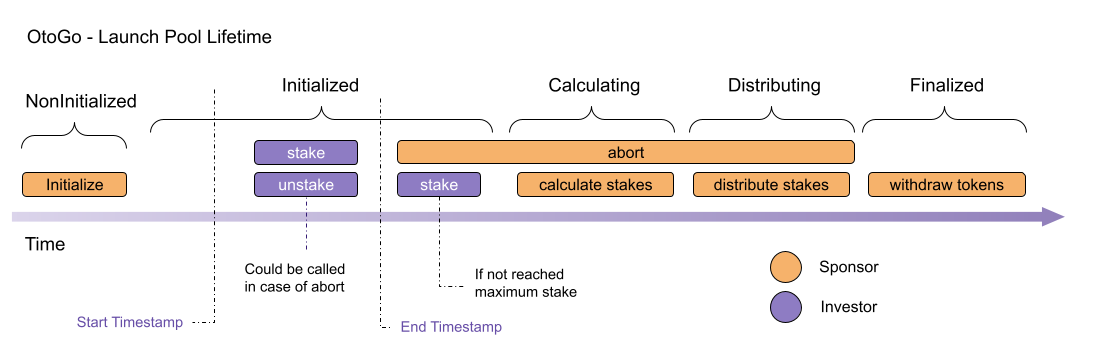
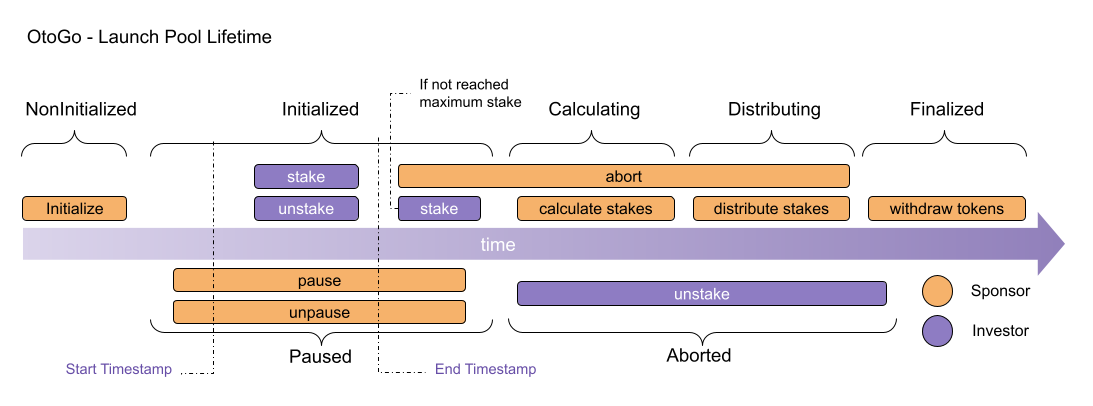
Improve detailed user specs for launch pools.

diff --git a/README.md b/README.md
@@ -29,18 +29,18 @@ truffle run coverage
 ### Pre-Launch Requirements
 
 At the pre-launch moment the Sponsor should decide all aspects of the launch pool:
-1) **Allowed tokens** (`_allowedTokens`) by the launch pool, any ERC20 token. It's an array pointing the addresses of the tokens accepted as stakes. Recommend use only stable tokens or different tokens with similar values, due to all be normalized with 18 decimals and considereded has same weight in staking. Any token different that those allowed by the launch pool will be rejected.
-2) **Minimum amount of stakes** (`_stakesMin`) that should be staked to launch pool be considered succeded.
-3) **Maximum amount of stakes** (`_stakesMax`) that could be staked at the launch pool.
-4) **Start timestamp** (`_startTimestamp`) that will allow users start to stake. If is smaller than current timestamp, it will be considered already opened for staking.
-5) **End timestamp** (`_endTimestamp`) that marks the last moment where users could unstake. After that Sponsor could lock the launch pool in case of reach `_stakesMin`. In case of launch pool isn't reached the `_stakesMax`, users could still stake if Sponsor not call function `lock`.
-6) **Minimum stake amount** (`_stakeAmountMin`) that a single stake should have. Any stake smaller than that amount will be rejected.
-7) **Maximum stake amount** (`_stakeClamp`) that a single stake should have. Any stake larger than that amount will be rejected.
-8) **Minimum Price** (`_curveMinPrice`) is the minimum price usually paid for the first staker in the pool.
-9) **Curve Reducer** (`_curveReducer`) is the smooth factor for the curve, for the standard curve already implemented, that is exponential, this factor reduces the strength of the curve. E.g.: a smaller value like 1, will make the last staking unit pays 7100% more for a share than `_curveMinPrice`. for a bigger value like 100, will make the last stake unit cost only 72% more for a share than `_curveMinPrice`.
-10) **Curve Contract Address** (`_curveAddress`) is the address of the respective contract containing the functions for curve shares calculation.
-11) **Launch Pool Metadata** (`metadata`) a JSON file stored on IPFS with launch pool additional information. The required fields are `title` and `description`. But the idea is to add any kind of links to social media and informational links for the launch pool.
-12) **Shares Contract Address** (`_token`) a pre-deployed token containing enough shares to be distributed at the end of the launch pool. At the Distribution stage, sponsor should approve launch pool to transfer those shares on belong of him, **no need for the Sponsor transfer any token to the launch pool**. Sponsor should have enougth tokens to be distributed approved for launch pool contract, othewise the distribution will not be concluded by the launch pool.
+- **Allowed tokens** (`_allowedTokens`) by the launch pool, any ERC20 token. It's an array pointing the addresses of the tokens accepted as stakes. Recommend use only stable tokens or different tokens with similar values, due to all be normalized with 18 decimals and considereded has same weight in staking. Any token different that those allowed by the launch pool will be rejected.
+- **Minimum amount of stakes** (`_stakesMin`) that should be staked to launch pool be considered succeded.
+- **Maximum amount of stakes** (`_stakesMax`) that could be staked at the launch pool.
+- **Start timestamp** (`_startTimestamp`) that will allow users start to stake. If is smaller than current timestamp, it will be considered already opened for staking.
+- **End timestamp** (`_endTimestamp`) that marks the last moment where users could unstake. After that Sponsor could lock the launch pool in case of reach `_stakesMin`. In case of launch pool isn't reached the `_stakesMax`, users could still stake if Sponsor not call function `lock`.
+- **Minimum stake amount** (`_stakeAmountMin`) that a single stake should have. Any stake smaller than that amount will be rejected.
+- **Maximum stake amount** (`_stakeClamp`) that a single stake should have. Any stake larger than that amount will be rejected.
+- **Minimum Price** (`_curveMinPrice`) is the minimum price usually paid for the first investor in the pool.
+- **Curve Reducer** (`_curveReducer`) is the smooth factor for the curve, for the standard curve already implemented, that is exponential, this factor reduces the strength of the curve. E.g.: a smaller value like 1, will make the last staking unit pays 7100% more for a share than `_curveMinPrice`. for a bigger value like 100, will make the last stake unit cost only 72% more for a share than `_curveMinPrice`.
+- **Curve Contract Address** (`_curveAddress`) is the address of the respective contract containing the functions for curve shares calculation.
+- **Launch Pool Metadata** (`metadata`) a JSON file stored on IPFS with launch pool additional information. The required fields are `title` and `description`. But the idea is to add any kind of links to social media and informational links for the launch pool.
+- **Shares Contract Address** (`_token`) a pre-deployed token containing enough shares to be distributed at the end of the launch pool. At the Distribution stage, sponsor should approve launch pool to transfer those shares on belong of him, **no need for the Sponsor transfer any token to the launch pool**. Sponsor should have enougth tokens to be distributed approved for launch pool contract, othewise the distribution will not be concluded by the launch pool.
 
 > Note: The tokens to be distributed should have enough supply for that. The equation used by the contract to know this value is: `supply required = _curveMinPrice * _stakeMax`
 
@@ -55,47 +55,55 @@ At the pre-launch moment the Sponsor should decide all aspects of the launch poo
 
 ### Launch Pool Stages
 
-- **NonInitialized** - This is the first stage of the launchpool before it is initialized. We use the "initialize" function of the new launchpool to set its parameters.
-- **Initialized** - Right after a Launchpool is initialized the stake/unstake is defined by values `_startTimestamp` and `_endTimestamp`. If `_startTimestamp` isn't reached, no action can be taken by stakers. Once `_startTimestamp` is reached, stakers could stake and unstake freely. Once `_endTimestamp` is reached, stake could only be called if there is still space for within the defined hard cap. At any moment of Initialized stage sponsor could call `pause` to prevent inverstor from stake or `abort`.
-- **Paused** - Paused stage has to be triggered by Sponsor in case any problem occurs. Once a launchpool is in pause,`stake` is no longer allowed  but, following our code audit, `unstake` is allowed.
-- **Calculating** - Once `_endTimestamp` is reached and the `_stakesMin` has fulfilled, the Sponsor needs to call `lock` function before start calculating shares. Once called, lock function will lead to Calculation stage and no investor is allow to `stake` or `unstake`. In this stage, Sponsor is allowed to trigger `calculateSharesChunk` to calculate how much tokens each stake will receive for the amount staked. The tokens are  calculated as long has `gasLeft > 100000` on the transaction. Once `gasLeft` falls below 100000, the contract stops its calculation on the current index, and the function needs to be called again. This process is repeated until all stakers have their tokens calculated.
-- **Distributing** - Once all tokens are calculated, the contract automatically triggers the stage Distributing. At this stage, Sponsor should trigger `distributeSharesChunk` on the smart contract, which transfers all calculated tokens to the respective stakers. The process is identical to the `calculateSharesChunk`: tokens are distributed as long as `gasLeft > 100000` on the transaction. When `gasLeft` falls below 100000, the contract stops distributing on the current index, and the function needs to be called again. This process is repeated until all stakers receive their tokens.
-- **Finalized** - Once the last tokens are distributed, the previous function automatically triggers Finalized stage. At this stage, the only function that could be triggered by the Sponsor is `withdrawStakes`. This will allow Sponsor to withdraw all amounts staked by the investors, whose capital is now committed.
-- **Aborted** - At any moment during the launch pool phase, Sponsor can call the `abort` function. When aborted, the only function that stakers can call is the `unstake`function, which will let each investor retrieve their stakes.
+#### NonInitialized
+This is the first stage of the launchpool before it is initialized. We use the `initialize` function of the new launchpool to set its parameters. The contract not use contructor function due to the nature of the clones used by the factory.
+#### Initialized
+Right after a Launchpool is initialized the stake/unstake is defined by values `_startTimestamp` and `_endTimestamp`. If `_startTimestamp` isn't reached, no action can be taken by investor. Once `_startTimestamp` is reached, investors could `stake` and `unstake` freely, **INVESTORS SHOULD NOT TRANSFER MANUALLY TOKENS TO LAUNCH POOL CONTRACT**. Once `_endTimestamp` is reached, stake could only be called if there is still space for within the defined hard cap. At any moment of Initialized stage sponsor could call `pause` to prevent inverstor from stake or `abort`.
+#### Paused
+Paused stage has to be triggered by Sponsor using `pause` function in case any problem occurs, `pause` could only be called on initialized stage. Once a launchpool is in pause, `stake` is no longer allowed  but, following our code audit, `unstake` is allowed. During paused stage, the only functions that could be called by the sponsor is `unpause` that return to initialized stage and `abort` that changes pool to aborted stage.
+#### Calculating
+Once `_endTimestamp` is reached and the `_stakesMin` has fulfilled, the Sponsor needs to call `lock` function before start calculating shares. Once called, lock function will lead to Calculation stage and no investor is allow to `stake` or `unstake`. In this stage, Sponsor is allowed to trigger `calculateSharesChunk` to calculate how much tokens each stake will receive for the amount staked. The tokens are  calculated as long has `gasLeft > 100000` on the transaction. Once `gasLeft` falls below 100000, the contract stops its calculation on the current index, and the function needs to be called again. This process is repeated until all investors have their tokens calculated.
+#### Distributing  
+Once all tokens are calculated, the contract automatically triggers the stage Distributing. 
+At this moment Sponsor should have all shares to distribute, those shares should be `approved` for launch pool tranfer. **SPONSOR SHOULD NOT TRANSFER MANUALLY TOKENS TO LAUNCH POOL CONTRACT**. After that, Sponsor should trigger `distributeSharesChunk` on the smart contract, which transfers all calculated tokens to the respective investor. The process is identical to the `calculateSharesChunk`: tokens are distributed as long as `gasLeft > 100000` on the transaction. When `gasLeft` falls below 100000, the contract stops distributing on the current index, and the function needs to be called again. This process is repeated until all investors receive their tokens.
+#### Finalized
+Once the last tokens are distributed, the previous function automatically triggers Finalized stage. At this stage, the only function that could be triggered by the Sponsor is `withdrawStakes`. This will allow Sponsor to withdraw all amounts staked by the investors, whose capital is now committed.
+#### Aborted
+At any moment during the launch pool phase, Sponsor can call the `abort` function. When aborted, the only function that investors can call is the `unstake` function, which will let each investor retrieve their stakes.
 
 ![Otogo Launch Pool Lifetime](./docs/otogo-lifetime.png)
 
-> Note: Shares/tokens, as well as stakers/investors are used interchangeably here.
+> Note: Shares/tokens, as well as investors are used interchangeably here.
 
 ## Technical Details
 
-### Launch Curve
+### Launch Curve Contract
 
 The launch curve is a utilitary contract used to create the curve of token price/distribution. The idea is to use as a interface for different kind of bounding curve algorithms. It is based on three functions:
-- **GetShares** - Calculate the return shares (in Wei) of a stake based on a total supply, pool balance and a reducer factor.
+- **Get Shares** (`GetShares`) - Calculate the return shares (in Wei) of a stake based on a total supply, pool balance and a reducer factor.
 `supply` The total supply of the launch pool.
 `pool` The current balance of the pool to be calculated.
 `stake` The current stake to return the amount of respective tokens.
 `reducer` The reducerr factor to make curve less exponential. Recommended 1 to 400.
 `minPrice` The minimum price for token stake could pay for.
-- **Get Unit Price** - Return the unit price (in Wei) for each staked token based on current state of the pool.
+- **Get Unit Price** (`GetUnitPrice`) - Return the unit price (in Wei) for each staked token based on current state of the pool.
 `supply` The total supply of the launch pool.
 `pool` The current balance of the pool to be calculated.
 `reducer` The reducerr factor to make curve less exponential. Recommended 1 to 400.
 `minPrice` The minimum price for token stake could pay for.
-- **Get Curve** - The variation of price in Wei starting form 0.
+- **Get Curve** (`GetCurve`) - The variation of price in Wei starting form 0.
 `supply` The total supply of the launch pool.
 `pool` The current balance of the pool to be calculated.
 `reducer` The reducerr factor to make curve less exponential. Recommended 1 to 400.
 
-### Pool Factory
+### Pool Factory Contract
 
 The ownable/upgradeable contract owned by OtoCo, stores a record of launch pool deployed by it. Also is used to store the last source of launch pool contract used to clone. This contract could be used to deploy new launch pools with a secure/updated source for it. It also holds all kind of Curve contracts audited and tested that guarantee integration with launch pools.
 
 The contract itself could be upgraded to support future implementations.
 
 There's only a single function to call:
-#### **createLaunchPool**
+#### Create Launch Pool (`createLaunchPool`)
 Deploy a new launch pool with the parameters se by the caller. The caller will be automatically the Sponsor of the launch pool. This function needs to follow with the following parameters:
 - **Allowed Tokens** (`_allowedTokens`) - With an array of ERC20 tokens that will be used to stake.
 - **Integer Arguments** (`_uintArgs`) - With an array containing the respective values in order: `_stakesMin`, `_stakesMax`, `_startTimestamp`, `_endTimestamp`, `_curveReducer`, `_stakeAmountMin`, `_curveMinPrice`, `_stakeClamp`.
